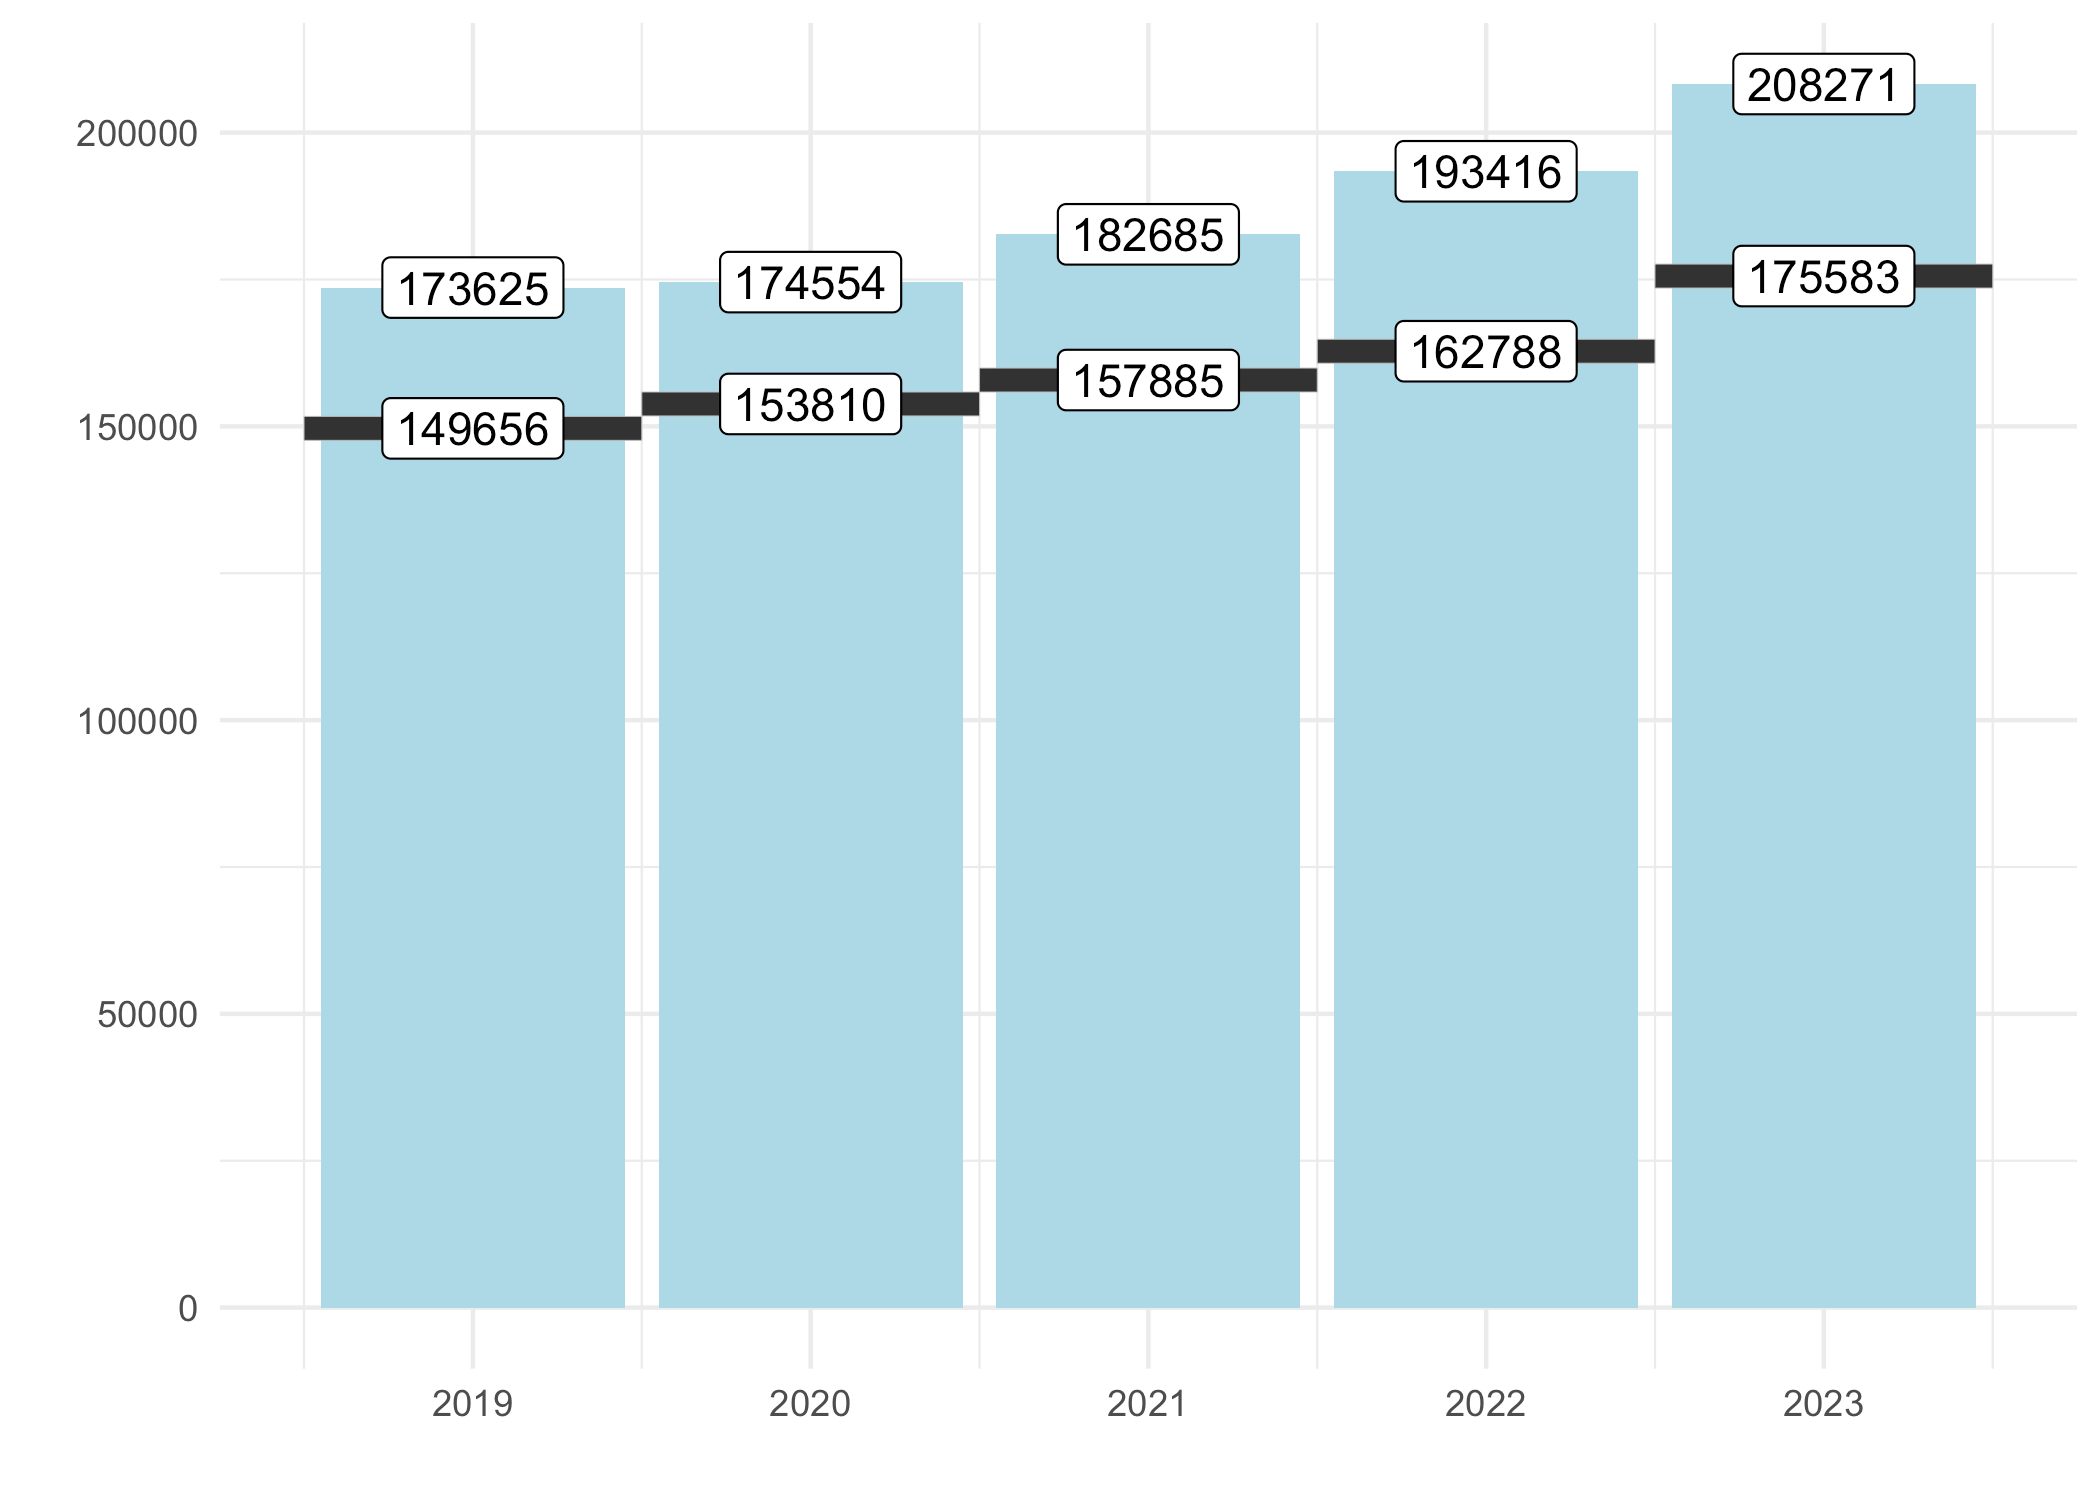
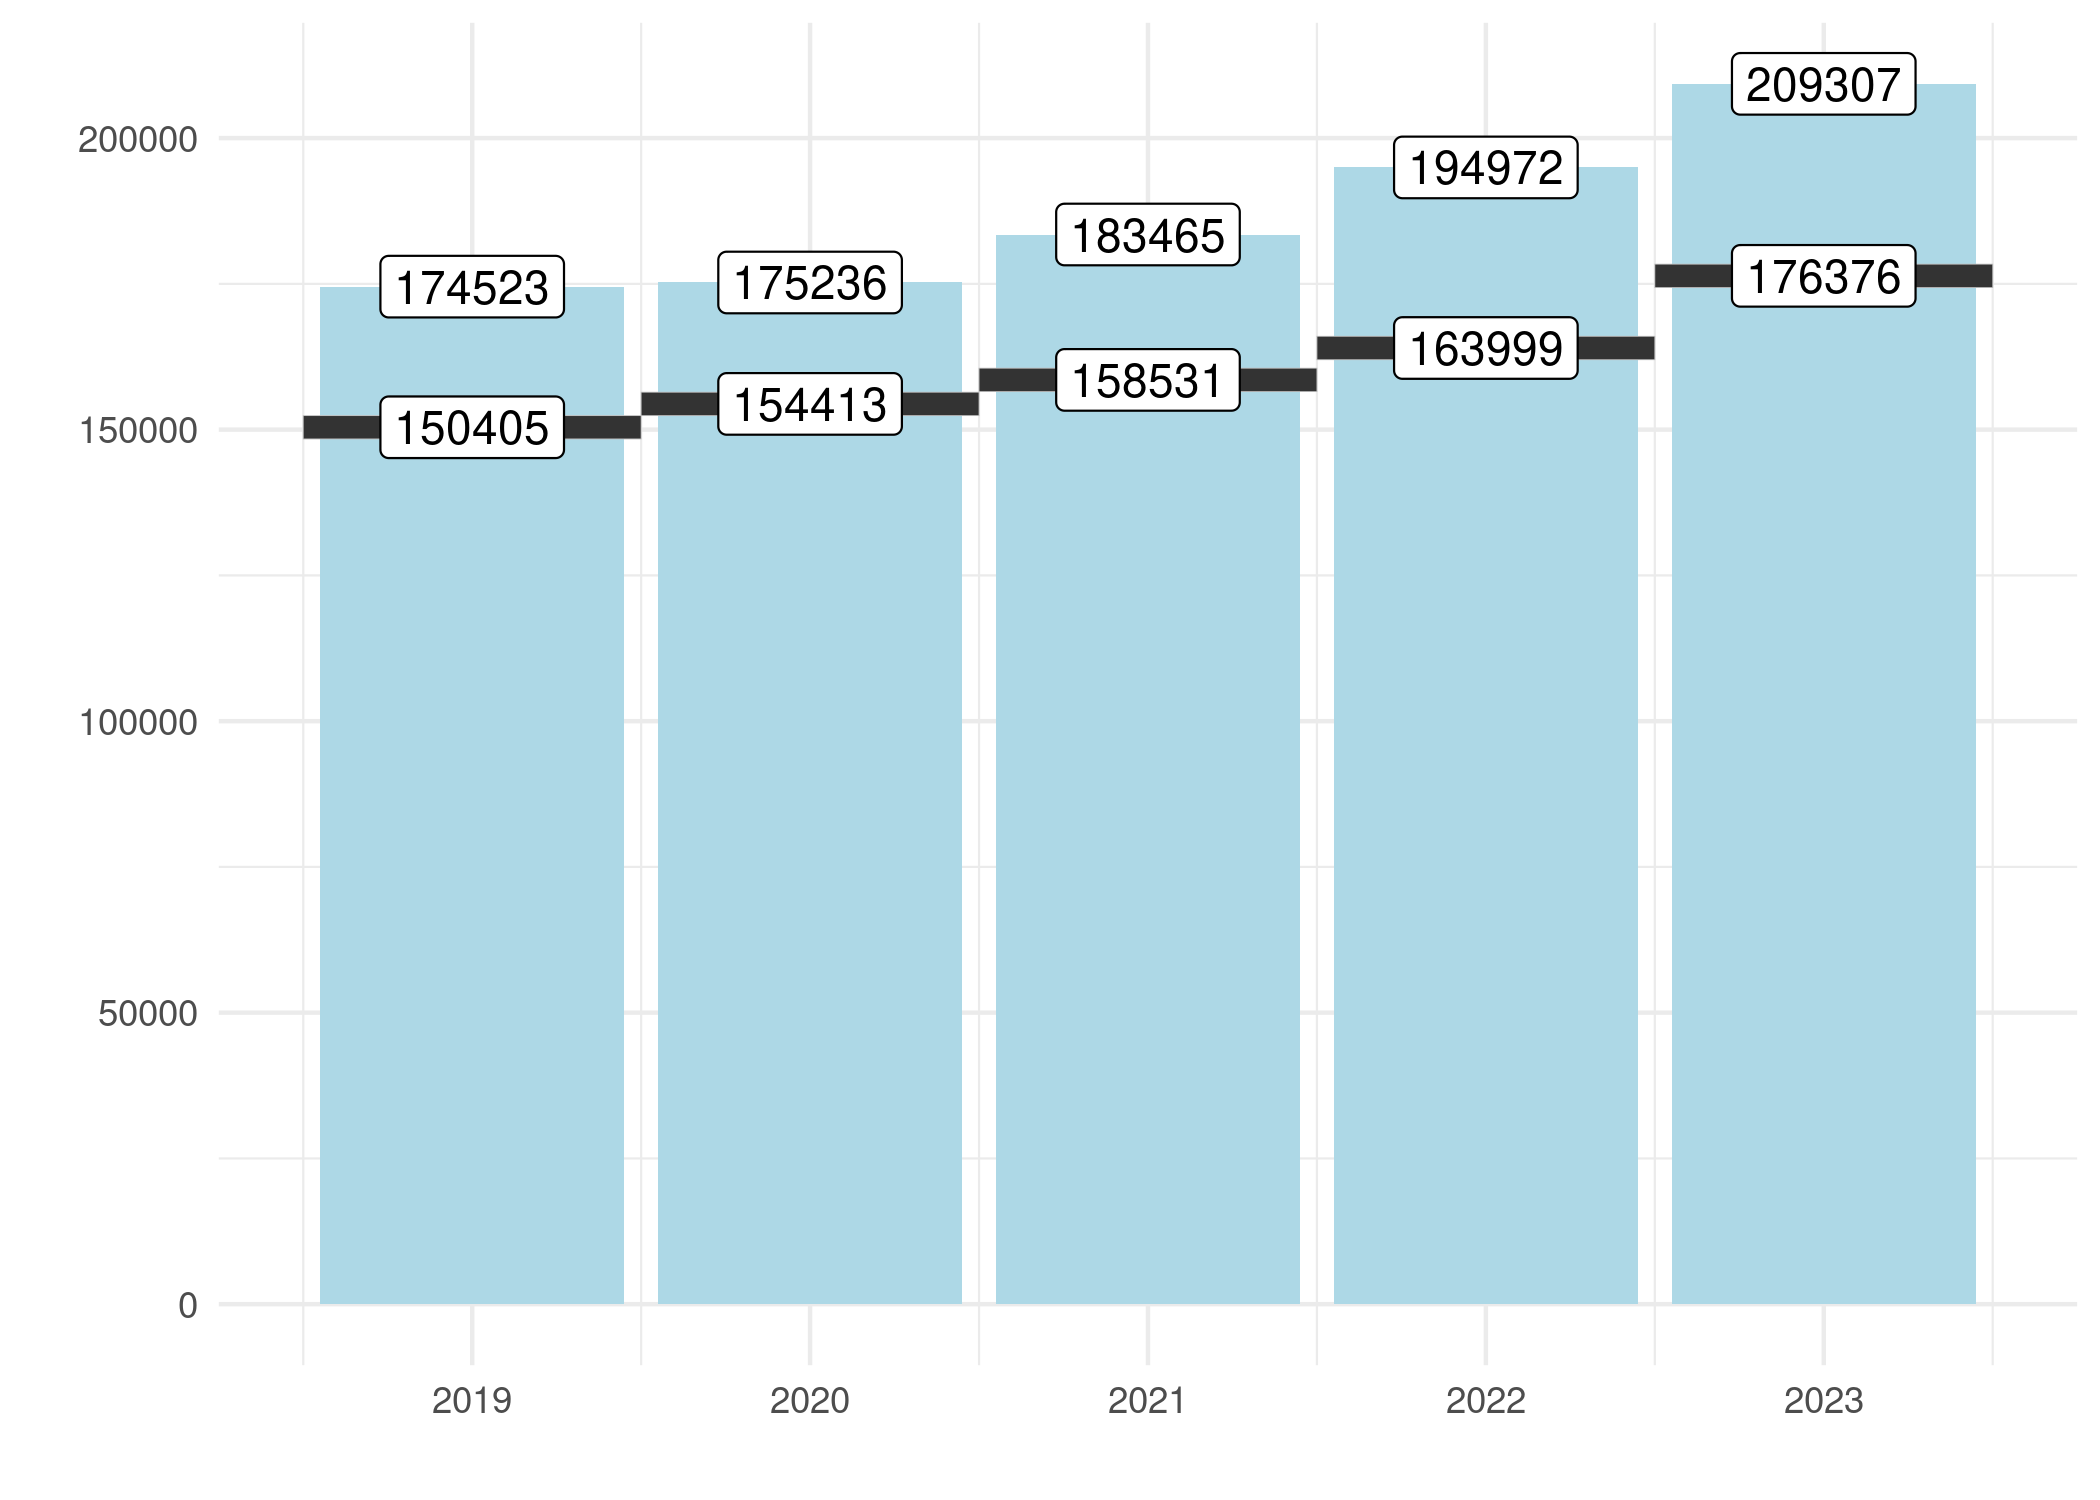
fixed plots in use_cases/interest_payments.md

diff --git a/use_cases/interest_payments.md b/use_cases/interest_payments.md
@@ -182,7 +182,7 @@ figure2 <- ggplot(aes(x = year), data = firms_by_year) +
 plot(figure2)
 ```
 
-![](interest_payments_files/figure-gfm/figure2-1.png)<!-- -->
+![](../figures/interest_figure2-1.png)<!-- -->
 <img src="../figures/mogilyat_figure2.png" width="60%"/>
 
 Despite our efforts to replicate the target study filtering procedures,
@@ -224,7 +224,7 @@ figure3 <- ggplot(aes(x = year, y = value, group = statistic, fill = statistic, 
 plot(figure3)
 ```
 
-![](interest_payments_files/figure-gfm/figure3-1.png)<!-- -->
+![](../figures/interest_figure3-1.png)<!-- -->
 <img src="../figures/mogilyat_figure3.png" width="60%"/>
 
 The medians are identical, while the means are slightly different. We
@@ -269,7 +269,7 @@ figure3_alt <- ggplot(aes(x = year, y = value, group = statistic, fill = statist
 plot(figure3_alt)
 ```
 
-![](interest_payments_files/figure-gfm/figure3alt-1.png)<!-- -->
+![](../figures/interest_figure3alt-1.png)<!-- -->
 
 Here we observe an even higher interest/cost ratio, possibly indicating
 a greater role for the cost channel in the Russian economy.
